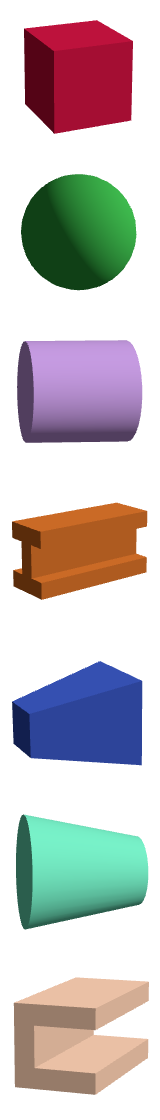
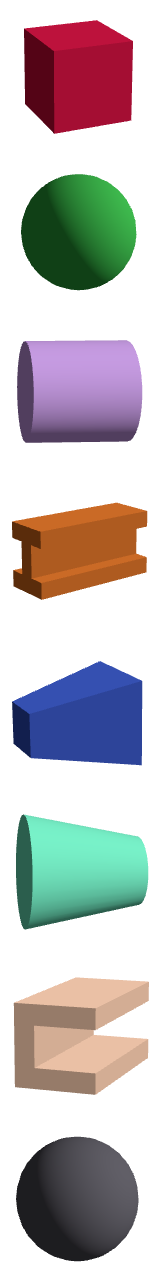
Add ground element using left-hand panel

diff --git a/pbshm/ievisualiser/static/js/builder.js b/pbshm/ievisualiser/static/js/builder.js
@@ -1,5 +1,5 @@
 import * as THREE from 'three';
-import {OrbitControls} from 'three/addons/controls/OrbitControls.js';
+import {OrbitControls} from 'three/addons/controls/OrbitControls.js'; 
 import { GUI } from 'three/addons/libs/lil-gui.module.min.js';
 
 
@@ -26,12 +26,21 @@ let relationshipNatures = {};
 const gui = new GUI();
 
 
-const modelDetails = {'Name': '', 'Description': '', 'Population': '', 'Save': function() {save(modelDetails, relationships, relationshipNatures, cElements);}};
+const modelDetails = {'Name': '', 'Description': '', 'Population': '', 'Type': 'grounded', 'Save': function() {save(modelDetails, relationships, relationshipNatures, cElements);}};
 gui.add(modelDetails, 'Save');
 const modelDetailsFolder = gui.addFolder('Model details');
 modelDetailsFolder.add(modelDetails, 'Name').onChange( value => { modelDetails['Name'] = value; });
 modelDetailsFolder.add(modelDetails, 'Description').onChange( value => { modelDetails['Description'] = value; });
 modelDetailsFolder.add(modelDetails, 'Population').onChange( value => { modelDetails['Population'] = value; });
+modelDetailsFolder.add(modelDetails, 'Type', ['grounded', 'free']).onChange( value => {
+																 modelDetails['Type'] = value;
+																 if (value == 'grounded') {
+																	document.getElementById("uigroundinfo").style.visibility = 'visible';
+																	document.getElementById("uiground").style.visibility = 'visible';
+																 } else {
+																	document.getElementById("uigroundinfo").style.visibility = 'hidden';
+																	document.getElementById("uiground").style.visibility = 'hidden';
+																 } });
 
 
 addColourFolders(gui, render, "builder");
@@ -60,9 +69,8 @@ relationFolder.children[5].hide();
 
 
 const elementFolder = gui.addFolder('Element');
-const elInfo = {'Name': '', 'Is ground': false}
+const elInfo = {'Name': ''}
 elementFolder.add(elInfo, 'Name').onChange(updateElementName);
-elementFolder.add(elInfo, 'Is ground',).onChange(value => toggleGround(value));
 elementFolder.hide();
 let floorFolder, boxFolder, sphereFolder, cylinderFolder, obliqueCylinderFolder, trapezoidFolder, beamFolder, folders, currentFolder;
 
@@ -151,6 +159,7 @@ const beamParams = {"length": 8,
 				    "s": 1,
 				    "t": 1,
 				    "b": 3}
+const groundRadius = 3;
 
 
 
@@ -171,6 +180,7 @@ const rollOverTrapezoidGeo = new TrapezoidGeometry(trapezoidParams['Faces Left T
 												   trapezoidParams.length);
 const rollOverIBeamGeo = generateBeam("i-beam", beamParams.length, beamParams.h, beamParams.s, beamParams.t, beamParams.b);
 const rollOverCBeamGeo = generateBeam("c-beam", beamParams.length, beamParams.h, beamParams.s, beamParams.t, beamParams.b);
+const rollOverGroundGeo = new THREE.SphereGeometry(groundRadius);
 rollOverCylinderGeo.rotateZ(Math.PI/2);
 rollOverObliqueCylinderGeo.rotateZ(Math.PI/2);
 let planeGeometry;
@@ -285,6 +295,9 @@ function buildModel(preInfo=undefined, shapes=undefined, preRelationships=undefi
 		elem.addEventListener( 'click', allowUncheck );
 	} );
 	document.querySelectorAll( '#uitwo .tiles input[type=radio][name=voxel]' ).forEach( ( elem ) => {
+		elem.addEventListener( 'click', allowUncheck );
+	} );
+	document.querySelectorAll( '#uiground .tiles input[type=radio][name=voxel]' ).forEach( ( elem ) => {
 		elem.addEventListener( 'click', allowUncheck );
 	} );
 
@@ -403,6 +416,7 @@ function onPointerDown( event ) {
 				}
 			}
 		} else {
+			console.log(currentId);
 			if (currentId != undefined){
 				// Add new object
 				if (currentId == "cube"){
@@ -435,6 +449,9 @@ function onPointerDown( event ) {
 					currentGeometry = generateBeam("i-beam", beamParams.length, beamParams.h, beamParams.s, beamParams.t, beamParams.b);;
 				} else if (currentId == "cbeam"){
 					currentGeometry = generateBeam("c-beam", beamParams.length, beamParams.h, beamParams.s, beamParams.t, beamParams.b);;
+				} else if (currentId == "ground") {
+					currentGeometry = new THREE.SphereGeometry(groundRadius);
+					currentGeometry.type = "ground";
 				}
 
 				// create new object
@@ -449,7 +466,11 @@ function onPointerDown( event ) {
 				voxel.currentAngleX = 0;
 				voxel.currentAngleY = 0;
 				voxel.currentAngleZ = 0;
-				voxel.el_contextual = undefined;
+				if (currentId == "ground") {
+					voxel.el_contextual = "ground";
+				} else {
+					voxel.el_contextual = undefined;
+				}
 				voxel.el_material = undefined;
 				voxel.relationshipCount = 0;
 				scene.add( voxel );
@@ -514,8 +535,15 @@ function onPointerDown( event ) {
 				currentFolder = undefined;
 			}
 			// If the ground plane has been selected, or anywhere outside of this then there'll be no current folder.
+			elementFolder.children[0].setValue(currentObject.name);
+			elementFolder.show();
+			if (currentId == "ground") {
+				gCoordsFolder.hide();
+				contextualFolder.hide();
+				materialFolder.hide();
+				geometryFolder.hide();
+			}
 			if (currentFolder != undefined){
-				elementFolder.children[0].setValue(currentObject.name);
 				transFolder.children[0].setValue(glToJson(currentObject, "x", currentObject.position.x));
 				transFolder.children[1].setValue(glToJson(currentObject, "y", currentObject.position.y));
 				transFolder.children[2].setValue(glToJson(currentObject, "z", currentObject.position.z));
@@ -523,17 +551,11 @@ function onPointerDown( event ) {
 				rotFolder.children[1].setValue(currentObject.rotation.y * (180 / Math.PI));
 				rotFolder.children[2].setValue(currentObject.rotation.z * (180 / Math.PI));
 				materialFolder.children[0].setValue(currentObject.el_material);
-				if (currentObject.el_contextual == 'ground'){
-					elementFolder.children[1].setValue(true);
-				} else {
-					contextualFolder.children[0].setValue(currentObject.el_contextual);
-					elementFolder.show();
-					gCoordsFolder.show();
-					contextualFolder.show();
-					materialFolder.show();
-					currentFolder.show();
-					elementFolder.children[1].setValue(false);
-				}
+				contextualFolder.children[0].setValue(currentObject.el_contextual);
+				gCoordsFolder.show();
+				contextualFolder.show();
+				materialFolder.show();
+				currentFolder.show();
 			}
 		}
 	}
@@ -605,6 +627,9 @@ function allowUncheck() {
 		} else if (currentId == "cbeam"){
 			rollOverMesh.geometry = rollOverCBeamGeo;
 			currentFolder = beamFolder;
+		} else if (currentId == "ground"){
+			rollOverMesh.geometry = rollOverGroundGeo;
+			currentFolder = undefined;
 		}
 		rollOverMesh.visible = true;
 	}
@@ -636,47 +661,6 @@ function updateElementName(){
 	currentObject.name = elInfo.Name;
 }
 
-
-function toggleGround(value){
-	if (value == true){
-		currentObject.el_contextual = 'ground';
-		gCoordsFolder.hide();
-		materialFolder.hide();
-		contextualFolder.hide();
-		geometryFolder.hide();
-		folders.forEach(folder => folder.hide());  // hide all geometry dimension folders
-		currentObject.material.color.setHex(otherColours.ground);
-	} else {
-		if (currentObject.el_contextual == 'ground') {
-			// If it was ground then update it's context
-			// This if-statement is needed because this function is also called for maintaining non-ground status.
-			currentObject.el_contextual = undefined;
-		}
-		gCoordsFolder.show();
-		materialFolder.show();
-		contextualFolder.show();
-		geometryFolder.show();
-		if (currentObject.geometry.type == "BoxGeometry"){
-			boxFolder.show();
-		} else if (currentObject.geometry.type == "SphereGeometry"){
-			sphereFolder.show();
-		} else if (currentObject.geometry.type == "CylinderGeometry"){
-			cylinderFolder.show();
-		} else if (currentObject.geometry.type == "ObliqueCylinderGeometry"){
-			obliqueCylinderFolder.show();
-		} else if  (currentObject.geometry.type == "TrapezoidGeometry"){
-			trapezoidFolder.show();
-		} else if (currentObject.geometry.type == "IBeamGeometry" || geometry.type == "CBeamGeometry"){
-			beamFolder.show();
-		}
-		if (currentObject.material.color.getHex() != otherColours['Orphans']
-				&& currentObject.material.color.getHex() != otherColours['Selected element']) {
-			// Don't change the colour if it's currently being highlighted as an orphan or selected element
-			resetColour(gui.children[2].children[0].getValue(), currentObject);
-		}
-	}
-	render();
-}
 
 
 // It's necessary to handle each dimension separately,

diff --git a/pbshm/ievisualiser/static/css/builder.css b/pbshm/ievisualiser/static/css/builder.css
@@ -30,7 +30,7 @@ html, body {
 }
 #ui input[type=radio] + label {
   background-image: url('../images/geometries.png');
-  background-size: 100% 700%;
+  background-size: 100% 800%;
   image-rendering: pixelated;
   width: 64px;
   height: 64px;
@@ -63,12 +63,45 @@ html, body {
 }
 #uitwo input[type=radio] + label {
   background-image: url('../images/geometries.png');
-  background-size: 100% 700%;
+  background-size: 100% 800%;
   image-rendering: pixelated;
   width: 64px;
   height: 64px;
   display: inline-block;
 }
 #uitwo input[type=radio]:checked + label {
+  outline: 3px solid rgb(250, 57, 57);
+}
+#uigroundinfo {
+  position: absolute;
+  top: 590px;
+  left: 10px;
+  width: 20%;
+  text-align: left;
+  z-index: 100;
+  display:block;
+  background: rgba(0, 0, 0, 0);
+}
+#uiground {
+  position: absolute;
+  left: 10px;
+  top: 630px;
+  background: rgba(0, 0, 0, 0.8);
+  padding: 5px;
+}
+#uiground input[type=radio] {
+  width: 0;
+  height: 0;
+  display: none;
+}
+#uiground input[type=radio] + label {
+  background-image: url('../images/geometries.png');
+  background-size: 100% 800%;
+  image-rendering: pixelated;
+  width: 64px;
+  height: 64px;
+  display: inline-block;
+}
+#uiground input[type=radio]:checked + label {
   outline: 3px solid rgb(250, 57, 57);
 }

diff --git a/pbshm/ievisualiser/templates/build-model.html b/pbshm/ievisualiser/templates/build-model.html
@@ -30,6 +30,14 @@
         <input type="radio" name="voxel" id="obliqueCylinder"><label for="obliqueCylinder" style="background-position: -0% -500%"></label>
       </div>
     </div>
+    <div id="uigroundinfo">
+      <p>Ground</p>
+    </div>
+    <div id="uiground">
+      <div class="tiles">
+        <input type="radio" name="voxel" id="ground"><label for="ground" style="background-position: -0% -700%"></label></br>
+      </div>
+    </div>
     <!-- Javascript Setup -->
     <script type="importmap">
       {

diff --git a/pbshm/ievisualiser/static/js/jsonHelper.js b/pbshm/ievisualiser/static/js/jsonHelper.js
@@ -296,7 +296,7 @@ function save(modelDetails, relationships, relationshipNatures, elements){
 				  "population": modelDetails.Population,
 				  "timestamp": new Date().getTime(),
 				  "models": { "irreducibleElement": {
-					          "type": "grounded",  // assumed
+					          "type": modelDetails.Type,  // assumed
             				  "elements": undefined,
 							  "relationships": []
 				  			  }

diff --git a/pbshm/ievisualiser/static/js/colourHelper.js b/pbshm/ievisualiser/static/js/colourHelper.js
@@ -9,7 +9,8 @@ const builderColours = {"BoxGeometry": 0xe6194b,
 						"ObliqueCylinderGeometry": 0x7FFFD4,
 						"TrapezoidGeometry": 0x4363d8,
 						"IBeamGeometry": 0xf58231,
-						"CBeamGeometry": 0xfbceb1}
+						"CBeamGeometry": 0xfbceb1,
+                        "ground": 0x5e5c64}
 
 
 const contextualColours = {"slab":0xa96645, "column":0x58C2EB, "beam":0x7b6bb0,
